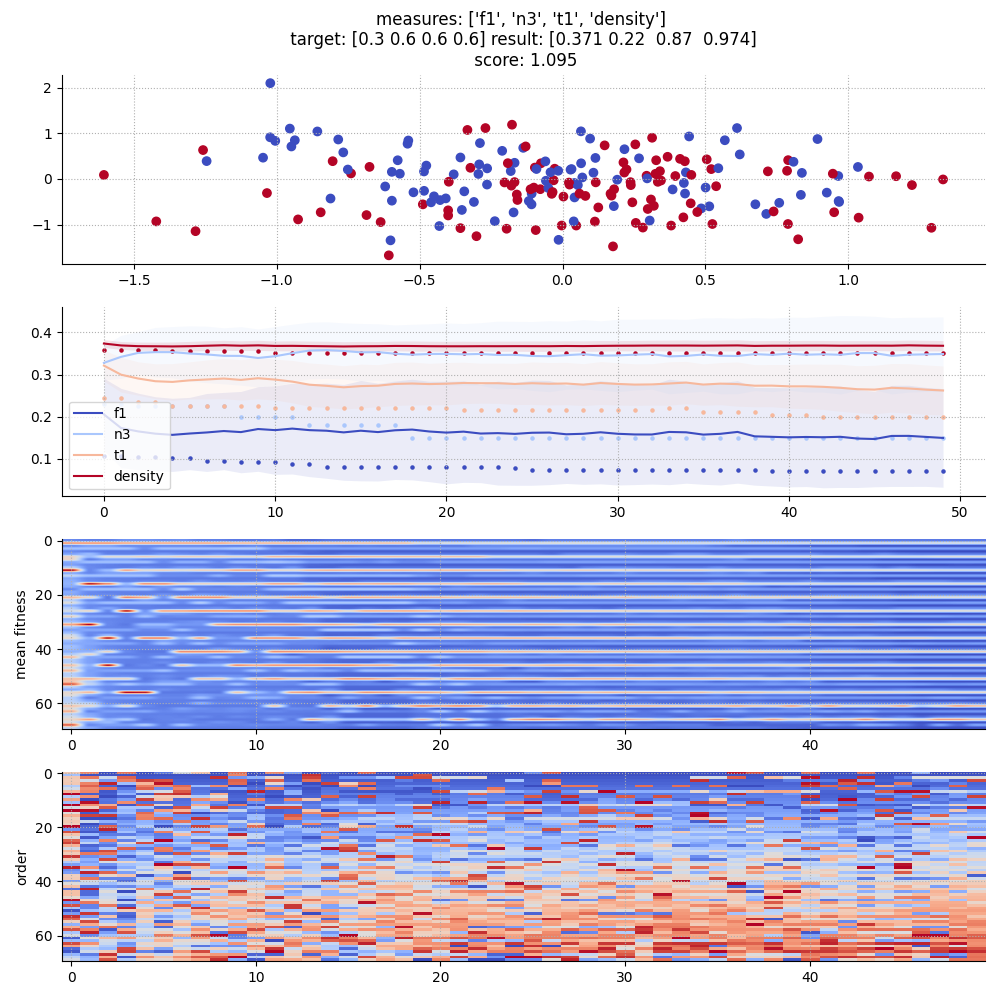
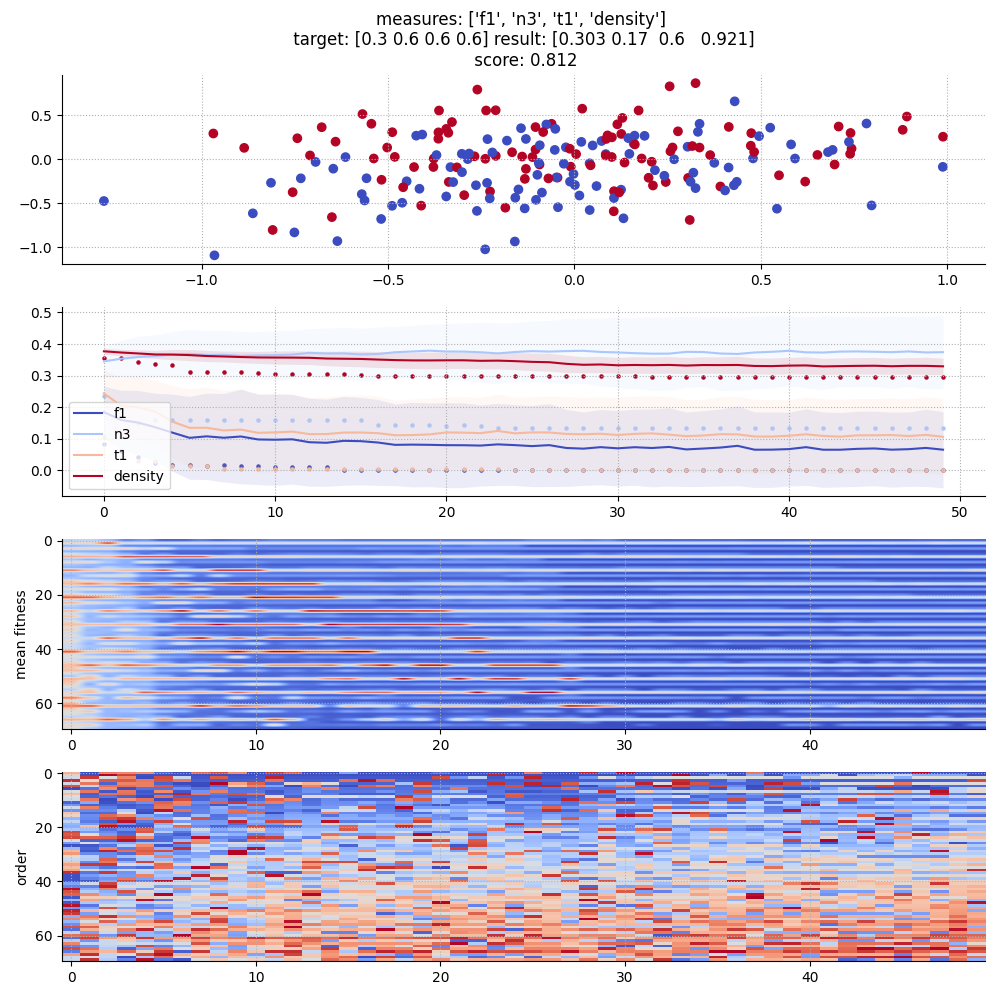
.

diff --git a/test.py b/test.py
@@ -1,11 +1,10 @@
 import numpy as np
-from sklearn.datasets import make_classification, make_blobs
+from sklearn.datasets import make_classification
 from problexity.classification import f1, f1v, f2, f3, f4, l1, l2, l3, n1, n2, n3, n4, t1, lsc, \
     density, clsCoef, hubs, t2, t3, t4, c1, c2
-import matplotlib.pyplot as plt
-from tqdm import tqdm
-
+from sklearn.model_selection import cross_val_score
 from Generate import GenComplexity
+from sklearn.naive_bayes import GaussianNB
 
 ### target
 complexity_fun = [f1, n3, t1, density]
@@ -14,11 +13,20 @@ targets = [0.3, 0.6, 0.6, 0.6]
 X_source, y_source = make_classification(n_samples=200)
 
 # optimize
-mirror = GenComplexity(X_source, y_source, targets, complexity_fun, vis=True)
-mirror.generate(iters=50, pop_size=70, cross_ratio=0.25, mut_ratio=0.1)
+gen = GenComplexity(X_source, y_source, targets, complexity_fun, vis=True)
+gen.generate(iters=50, pop_size=70, cross_ratio=0.25, mut_ratio=0.1)
 
-X, y = mirror.return_best(2)
+X, y = gen.return_best()
 
-mirror.gen_image()
-mirror.gen_pareto()
+gen.gen_image()
+gen.gen_pareto()
+
+print(gen.target_complexity)
+
+clf = GaussianNB()
+s1 = cross_val_score(clf, X_source, y_source, cv=10)
+s2 = cross_val_score(clf, X, y, cv=10)
+
+print(np.mean(s1), np.std(s1))
+print(np.mean(s2), np.std(s2))
 

diff --git a/Generate.py b/Generate.py
@@ -92,7 +92,9 @@ class GenComplexity:
                     
                 mut_ratio = mut_ratio*(1-decay)
 
-    def return_best(self, index=0):
+    def return_best(self, index=None):
+        if index==None:
+            index = len(self.measures)
         return self.project(self.population[index]), self.y_source
 
     def project(self, projection):
